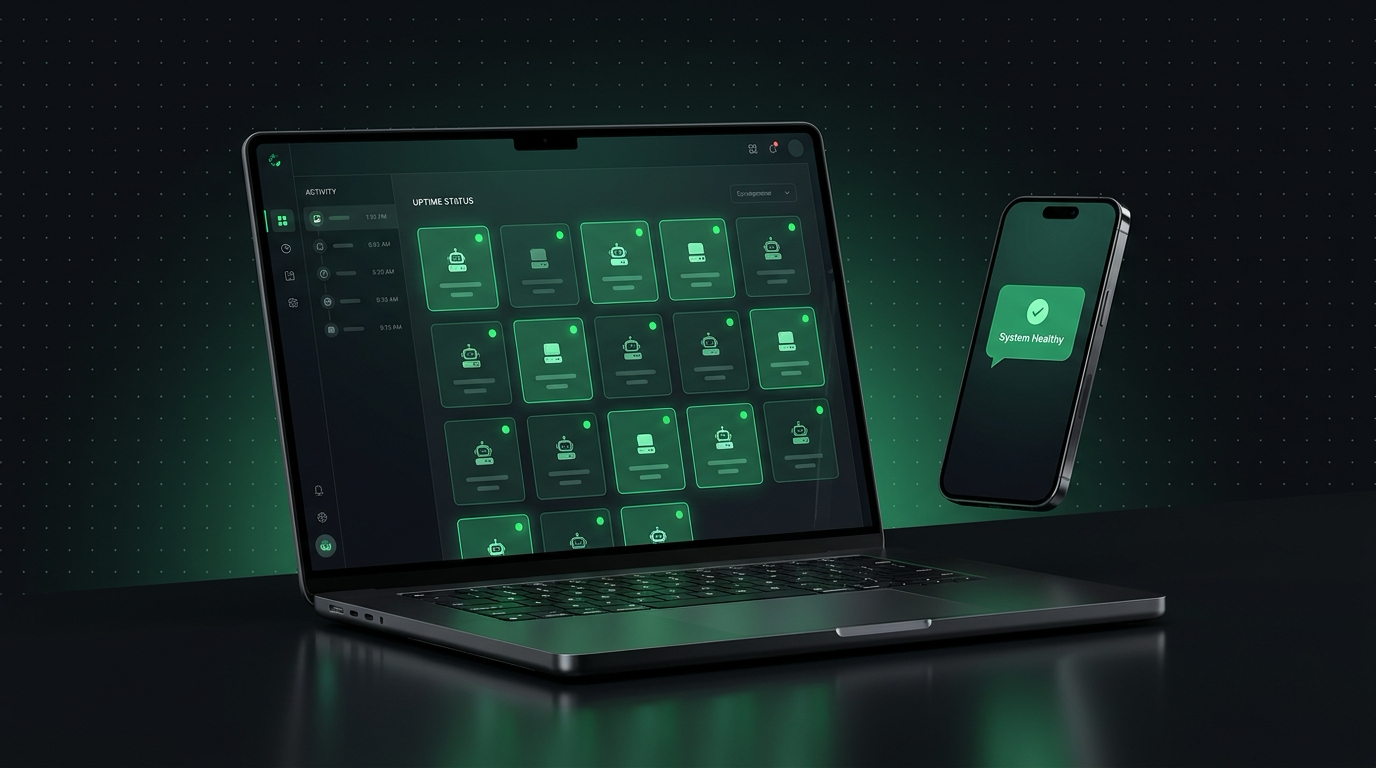
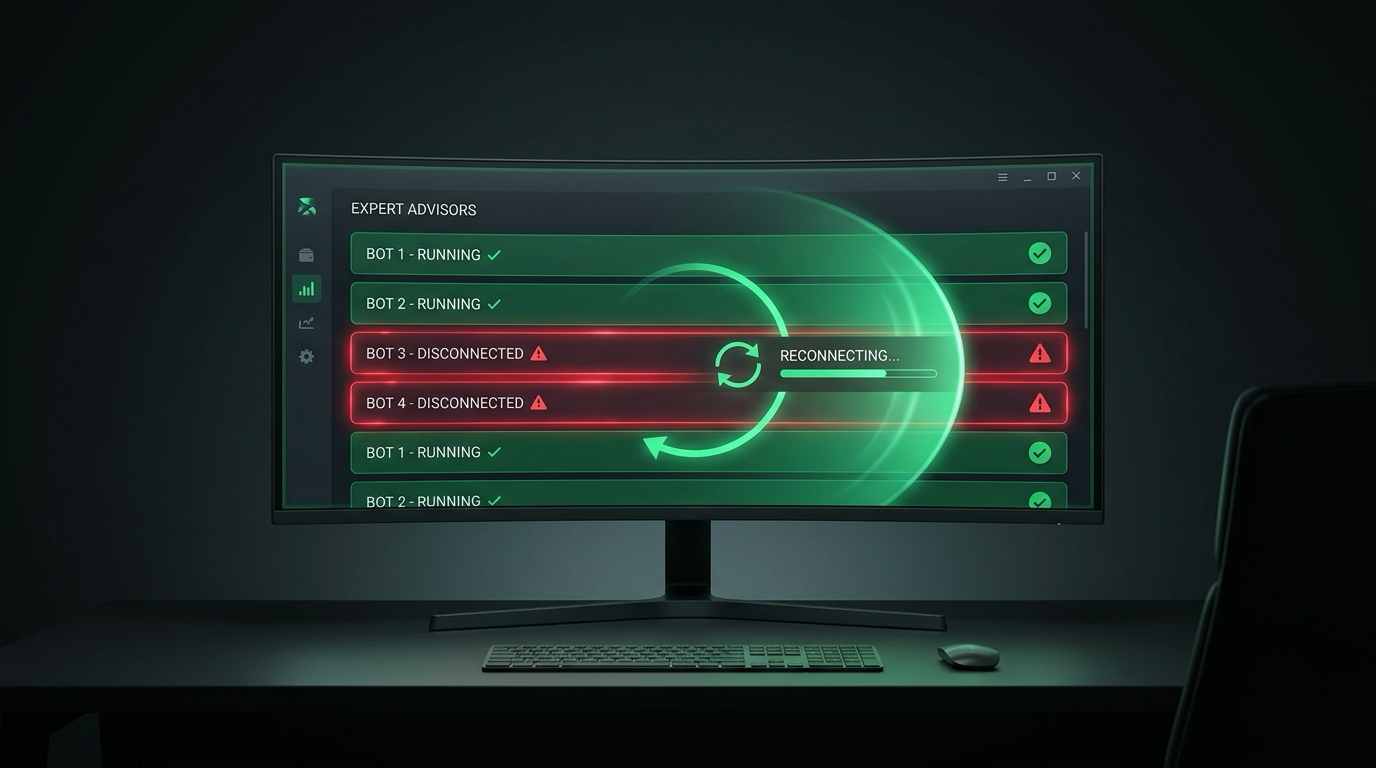
Rename domain to easentinel.alastor.space (name/domain consistency); refresh OG to recovery hero

diff --git a/site/404.html b/site/404.html
@@ -1,1 +1,1 @@
[2 lines of base64/hex data omitted]

diff --git a/site/404/index.html b/site/404/index.html
@@ -1,1 +1,1 @@
[2 lines of base64/hex data omitted]

diff --git a/site/_not-found/index.html b/site/_not-found/index.html
@@ -1,1 +1,1 @@
[2 lines of base64/hex data omitted]

diff --git a/site/login/index.html b/site/login/index.html
@@ -1,1 +1,1 @@
[2 lines of base64/hex data omitted]

diff --git a/site/privacy/index.html b/site/privacy/index.html
@@ -1,1 +1,1 @@
[2 lines of base64/hex data omitted]

diff --git a/site/register/index.html b/site/register/index.html
@@ -1,1 +1,1 @@
[2 lines of base64/hex data omitted]

diff --git a/site/terms/index.html b/site/terms/index.html
@@ -1,1 +1,1 @@
[2 lines of base64/hex data omitted]